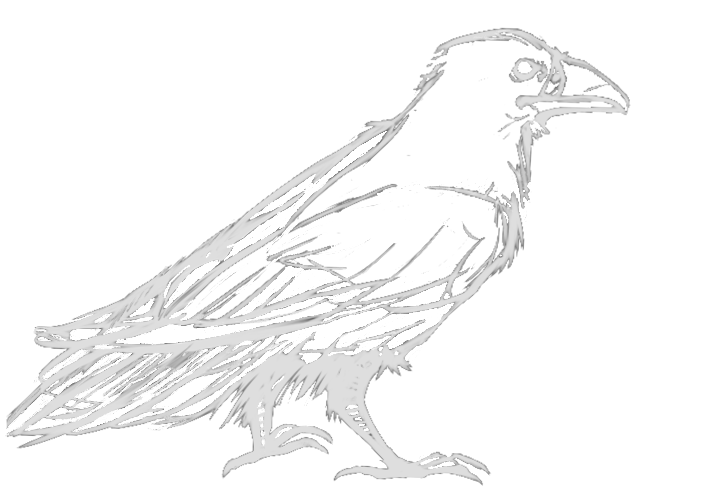
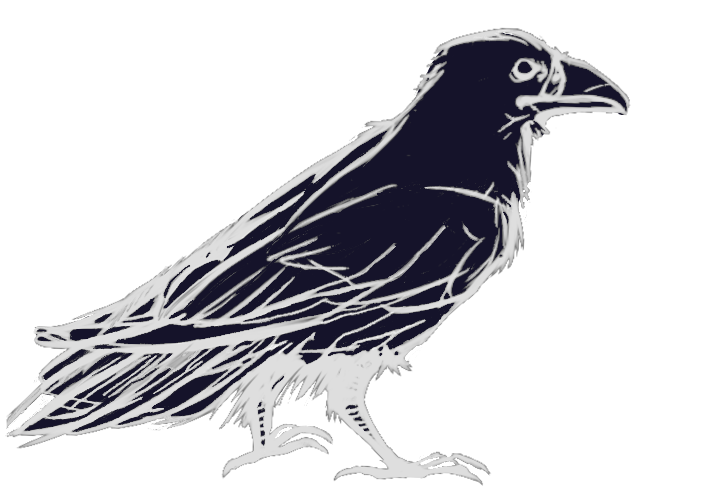
finished the hero section and all its animations

diff --git a/src/shared/components/Hero/style.module.css b/src/shared/components/Hero/style.module.css
@@ -1,18 +1,18 @@
 :root {
 	--purple-text: #d16fff;
+	--section-height: 400px;
+	--section-margin: 80px;
 }
 
 .heroContainer {
-	/* border: 2px solid red; */
-
 	display: flex;
 	justify-content: space-between;
 }
 
 /** INFO Section */
 .infoSection {
-	height: 800px;
-	border: 1px solid blue;
+	height: var(--section-height);
+	margin-top: var(--section-margin);
 
 	background-image: url(/imgs/white-space-breaker/messy-dots-edited-2-opacityChange.png);
 	background-position: center;
@@ -27,12 +27,10 @@
 }
 .info_margin {
 	/* im using this because padding messes with the flex width */
-	margin: 0px 100px;
+	margin-left: 120px;
 }
 
 .header_infoSection {
-	/* border: 1px solid red; */
-
 	margin-bottom: 40px;
 	letter-spacing: 2px;
 }
@@ -42,7 +40,7 @@
 	font-size: 1.3rem;
 	font-weight: 400;
 	opacity: 0;
-	animation: hellofriend 900ms ease-in-out 500ms forwards;
+	animation: hellofriend 1000ms ease-in-out 400ms forwards;
 }
 .header_infoSection h1 {
 	position: relative;
@@ -60,7 +58,7 @@
 	background: #832db4;
 	opacity: 0;
 	z-index: -1;
-	animation: headerUnderlineAnimate 900ms ease-in-out 500ms forwards;
+	animation: headerUnderlineAnimate 1000ms ease-in-out 400ms forwards;
 }
 
 @keyframes headerUnderlineAnimate {
@@ -109,11 +107,136 @@
 
 /** LOGO Section  */
 .logoSection {
-	height: 800px;
-	border: 1px solid green;
+	height: var(--section-height);
+	margin-top: var(--section-margin);
 
 	flex: 0.7;
 	display: flex;
 	justify-content: center;
 	align-items: center;
 }
+
+.crowContainer {
+	position: relative;
+}
+
+.crowContainer img {
+	transform: scaleX(-1);
+	position: relative;
+	/* for some reason "width" wouldn't keep the same width */
+	max-width: 510px;
+	min-width: 510px;
+	z-index: 5;
+}
+
+.haloContainer {
+	position: absolute;
+	top: -100px;
+	left: -35px;
+
+	transform-origin: center;
+	transform: rotate(25deg);
+}
+.crowContainer circle {
+	/* position: absolute; */
+	/* z-index: 1; */
+
+	/* top: -55px; */
+	/* left: 15px; */
+
+	width: 230px;
+	height: 230px;
+	border-radius: 50%;
+
+	fill: none;
+	stroke-width: 4px;
+	stroke: var(--gold-color);
+	stroke-dasharray: 900;
+	stroke-dashoffset: 860;
+
+	animation: haloExpand 1.5s ease 11s forwards;
+}
+@keyframes haloExpand {
+	0% {
+		stroke-dashoffset: 860;
+	}
+	100% {
+		stroke-dashoffset: 0;
+	}
+}
+
+.lineContainer {
+	position: absolute;
+	top: 185px;
+	left: 260px;
+	transform: rotate(-55deg);
+	z-index: 1;
+
+	display: flex;
+	flex-direction: column;
+	justify-content: center;
+	align-items: center;
+}
+.crow_line {
+	position: absolute;
+
+	height: 3px;
+	background-color: var(--gold-color);
+	transition: all 0.2s ease-in-out;
+}
+.line1 {
+	top: 60px;
+	width: 0px; /* will become 390px */
+	opacity: 0;
+	animation: lineExpand1 1s ease-in-out 12.8s forwards;
+}
+.line2 {
+	top: 30px;
+	width: 0px; /* will become 450px */
+	opacity: 0;
+	animation: lineExpand2 1s ease-in-out 12.4s forwards;
+}
+.line3 {
+	top: 0px;
+	width: 0px; /* will become 510px */
+	opacity: 0;
+	animation: lineExpand3 1s ease-in-out 12s forwards;
+}
+
+@keyframes lineExpand1 {
+	0% {
+		width: 0px;
+		opacity: 0;
+	}
+	100% {
+		width: 390px;
+		opacity: 1;
+	}
+}
+@keyframes lineExpand2 {
+	0% {
+		width: 0px;
+		opacity: 0;
+	}
+	100% {
+		width: 450px;
+		opacity: 1;
+	}
+}
+@keyframes lineExpand3 {
+	0% {
+		width: 0px;
+		opacity: 0;
+	}
+	100% {
+		width: 510px;
+		opacity: 1;
+	}
+}
+
+/*
+.crowContainer {}
+.crowContainer {}
+.crowContainer {}
+.crowContainer {}
+*/

diff --git a/src/shared/components/Hero/hero.jsx b/src/shared/components/Hero/hero.jsx
@@ -45,7 +45,7 @@ export default function HeroSection() {
 
 		setTimeout(() => {
 			startWorkBtnShine();
-		}, 11000);
+		}, 9500);
 	});
 
 	return (
@@ -64,7 +64,7 @@ export default function HeroSection() {
 
 					<div className={style.desc_infoSection}>
 						<TypeWriter />
-						<p>
+						<p style={{ maxWidth: "400px" }}>
 							I am a software engineer specializing in
 							front-end web development, focused on creating an
 							marvelous human-centric experience.
@@ -83,7 +83,31 @@ export default function HeroSection() {
 
 			{/* Right LOGO */}
 			<section className={style.logoSection}>
-				<h1>Crow img</h1>
+				<div className={style.crowContainer}>
+					<img src="/imgs/birds/sketch-crow-outline-gutted-white.png" />
+					<svg
+						width="350px"
+						height="350px"
+						className={style.haloContainer}
+					>
+						<circle
+							cx="50%"
+							cy="50%"
+							r="125"
+						></circle>
+					</svg>
+					<div className={style.lineContainer}>
+						<div
+							className={`${style.crow_line} ${style.line1}`}
+						></div>
+						<div
+							className={`${style.crow_line} ${style.line2}`}
+						></div>
+						<div
+							className={`${style.crow_line} ${style.line3}`}
+						></div>
+					</div>
+				</div>
 			</section>
 		</div>
 	);

diff --git a/src/shared/components/Hero/typewriter.jsx b/src/shared/components/Hero/typewriter.jsx
@@ -9,7 +9,7 @@ export default function TypeWriter() {
 			delay: 90,
 			cursor: "|",
 		});
-		TypewriterEff.pauseFor(4000)
+		TypewriterEff.pauseFor(3000)
 			.typeString("I build things, the cool")
 			.pauseFor(400)
 			.deleteChars(4)
